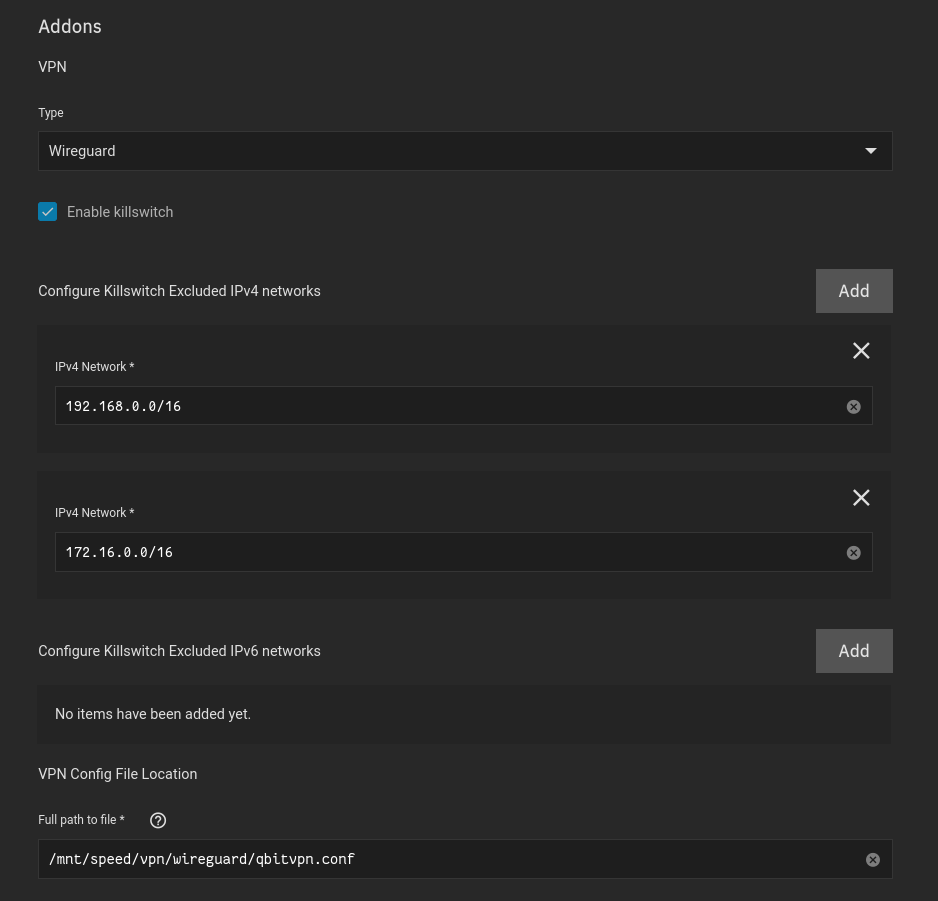
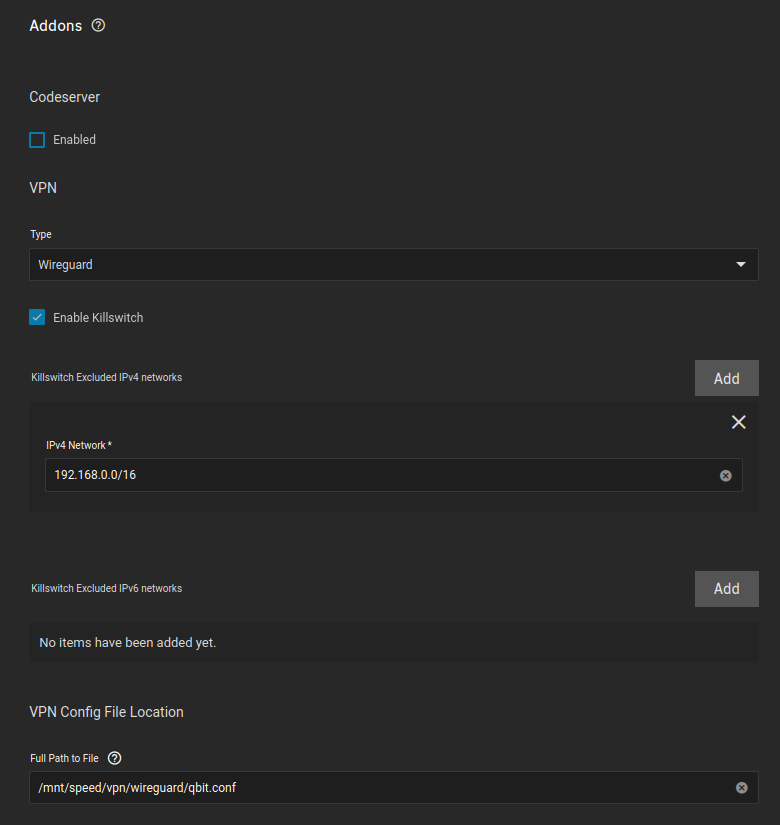
update qbittorrent

diff --git a/docs/applications/qbittorrent/in-app.md b/docs/applications/qbittorrent/in-app.md
@@ -9,10 +9,10 @@
     | When Torrent Category changed:                 	| Relocate Torrent           	| This is to automatically move the files torrents based on catagory               	|
     | When Default Save Path changed:                	| Relocate Affected Torrents 	| This is to automatically move the files torrents based on catagory               	|
     | When Category Save Path changed:               	| Relocate Affected Torrents 	| This is to automatically move the files torrents based on catagory               	|
-    | Default Save Path:                             	| `/qbitvpn/complete `         	| Set this to what you set your dataset mountpoint as                              	|
-    | Keep incomplete torrents in:                   	| `/qbitvpn/temp`              	| Keep incomplete torrents in a folder no apps are monitoring                      	|
-    | Copy .torrent files for finished downloads to: 	| `/qbitvpn/backup`            	| Its nice to have a backup folder of all your `.torrents` in the event of a crash 	|
-    | Monitored Folder                               	| `/qbitvpn/monitor`           	| Place `.torrent` files in this directory to automatically start those torrents   	|
+    | Default Save Path:                             	| `/media/download/torrent/complete`         	| Set this to what you set your dataset mountpoint as                              	|
+    | Keep incomplete torrents in:                   	| `/media/download/torrent/temp`              	| Keep incomplete torrents in a folder no apps are monitoring                      	|
+    | Copy .torrent files for finished downloads to: 	| `/media/download/torrent/backup`            	| Its nice to have a backup folder of all your `.torrents` in the event of a crash 	|
+    | Monitored Folder                               	| `/media/download/torrent/monitor`           	| Place `.torrent` files in this directory to automatically start those torrents   	|
 
 
 ![!Downloads: qbit](images/settings_downloads.png)

diff --git a/docs/applications/qbittorrent/installation.md b/docs/applications/qbittorrent/installation.md
@@ -65,7 +65,7 @@ The setup is default
 ## VPN
 
 - Using a Wireguard setup
-- Add your LAN network to the killswitch section (the interal 172.16.0.0/12 isn't necessary anymore)
+- Add your LAN network to the killswitch section (the internal 172.16.0.0/12 isn't necessary anymore)
 
 ![!Storage: NZBGet](images/vpn.png)
 
